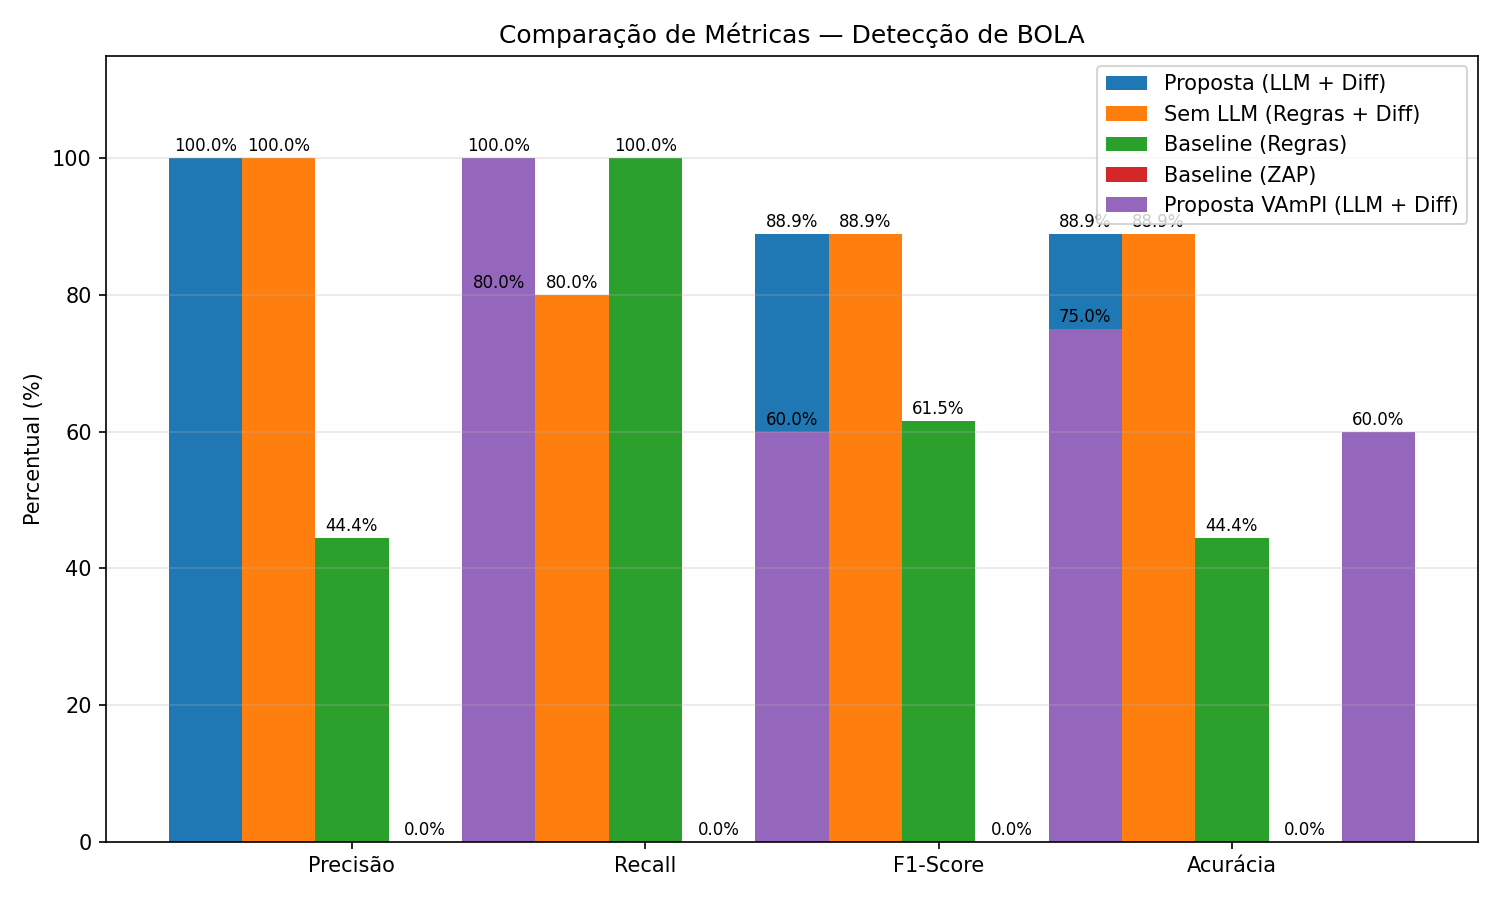
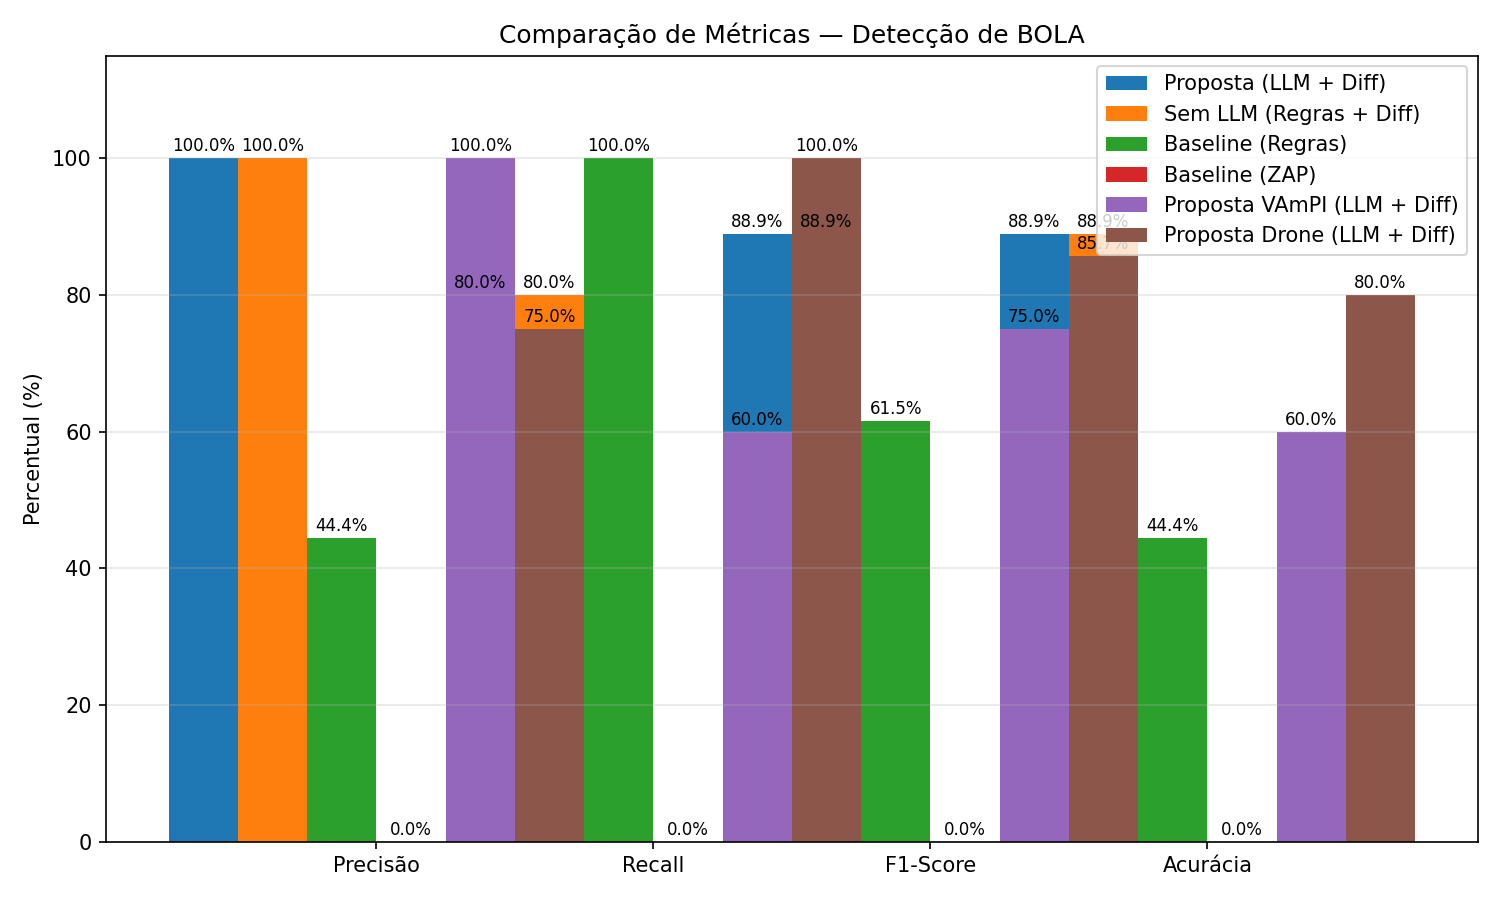
docs+results: experimento em alvo inédito (robustez a contaminação)
- results.csv: adiciona linha Proposta Drone (3 TP, 1 FP, 0 FN, 1 TN;
  precisão 75%, recall 100%, F1 85,7%)
- RESULTADOS.md: seção 2.3 (detalhamento Drone), achado 3b (robustez a
  contaminação de benchmark), causa C do FP (colisão de rota GET-only)
- HOWTO/DEVLOG: passo 5d e documentação do alvo inédito
- Gráficos regenerados com as 6 ferramentas

Recall 100% em alvo que a LLM não pode conhecer = evidência de
raciocínio estrutural, não memorização de benchmark público.

diff --git a/RESULTADOS.md b/RESULTADOS.md
@@ -19,6 +19,7 @@ reconhecidamente vulneráveis em cada benchmark — ver seção 3 e a classe
 | **Baseline (Regras)** — crAPI | 4 | 5 | 0 | 0 | 0 | 44,4% | 100% | 61,5% | 44,4% | 0,5 | 0 |
 | **Baseline (ZAP)** — crAPI | 0 | 80 | 4 | 0 | 0 | 0% | 0% | 0% | 0% | ~300 | 0 |
 | **Proposta (LLM + Diff)** — VAmPI | 3 | 0 | 2 | 0 | 2 | 100% | 60% | 75% | 60% | 5,7 | 0* |
+| **Proposta (LLM + Diff)** — Drone (inédito) | 3 | 1 | 0 | 1 | 0 | 75% | 100% | 85,7% | 80% | 7,2 | 0* |
 
 > *No VAmPI o LLM foi usado, mas o custo de tokens não foi instrumentado nesta
 > execução (coluna registra 0 por limitação do contador, não por ausência de uso).
@@ -83,12 +84,49 @@ Coluna "Classe" = classificação vs. gabarito (seção 1, Metodologia).
 
 **Total:** 3 TP, 0 FP, 2 FN, 0 TN.
 
+### 2.3 Proposta na Drone Rescue API (alvo inédito, 5 endpoints)
+
+Este é o experimento que **elimina o risco de contaminação de benchmark**: a API
+foi criada do zero para o TCC (domínio fictício "Observatório de Drones de
+Resgate"), nunca publicada antes dos testes. Logo, a LLM não pode tê-la
+memorizado — qualquer acerto vem de **raciocínio estrutural** sobre o spec. O
+gabarito é conhecido por construção (nós escrevemos quais endpoints validam o
+dono e quais não).
+
+| # | Método | Endpoint | Veredito | Classe | Interpretação |
+|---|---|---|---|---|---|
+| 1 | GET | `/api/v1/missions/{missionId}` | **VULNERABLE** | **TP** | A leu coordinates/briefing da missão de B |
+| 2 | PUT | `/api/v1/missions/{missionId}` | **VULNERABLE** | **TP** | A alterou a missão de B |
+| 3 | GET | `/api/v1/pilots/{pilotId}/profile` | **VULNERABLE** | **TP** | A leu o perfil de B |
+| 4 | GET | `/api/v1/missions/{missionId}/briefing` | DENIED | TN | Seguro: `own=200, cross=403` — validação de posse detectada |
+| 5 | DELETE | `/api/v1/missions/{missionId}` | **VULNERABLE** | **FP** | **Falso positivo** — ver explicação abaixo |
+
+**Total:** 3 TP, 1 FP, 0 FN, 1 TN. Precisão 75%, **Recall 100%**, F1 85,7%.
+
+**Destaques deste experimento:**
+- **Recall 100% em alvo inédito:** a arquitetura encontrou os 3 BOLAs reais sem
+  conhecimento prévio da aplicação — forte evidência de que raciocina sobre a
+  estrutura, não memoriza benchmarks públicos.
+- **Detecção correta de endpoint seguro (TN):** o `GET /briefing` valida o dono
+  e respondeu `403` no acesso cruzado; o verificador diferencial captou a
+  diferença (`own=200` vs `cross=403`) e **não** o marcou como vulnerável. Isso
+  demonstra o valor da verificação diferencial: ela distingue o endpoint seguro
+  do vulnerável mesmo quando ambos têm a mesma assinatura.
+- **1 falso positivo (DELETE) — causa conhecida, não é erro de BOLA:** o
+  `DELETE /missions/{missionId}` é seguro (retorna 403 no acesso cruzado), mas
+  foi marcado VULNERABLE. A causa é a **limitação GET-only**: o verificador, ao
+  "testar" o DELETE, na verdade faz um GET na mesma URL, que casa com a rota
+  vulnerável `GET /missions/{missionId}` e retorna 200/200. O FP, portanto, é um
+  artefato da mesma limitação que gera os FN em outros alvos — e some assim que o
+  verificador passar a usar o método HTTP correto.
+
 ---
 
-## 3. Por que alguns endpoints ficaram INCONCLUSIVE?
+## 3. A limitação GET-only e suas três manifestações
 
-Há **duas causas distintas**, ambas ligadas ao mesmo fator: o
-`DifferentialVerifier` atual executa **apenas requisições GET**.
+O `DifferentialVerifier` atual executa **apenas requisições GET**. Essa única
+limitação se manifesta de três formas distintas nos resultados — entendê-las é
+chave para interpretar as métricas.
 
 ### Causa A — Endpoint não aceita GET (HTTP 405)
 
@@ -114,6 +152,17 @@ No crAPI, os três endpoints de vídeo retornaram `own=404, cross=404` → DENIE
 Os usuários de teste criados pelo `CrApiSetup` não possuem vídeos, então o
 recurso não existe nem para o próprio dono. Isso é classificado como DENIED
 (acesso negado por ausência), não como vulnerabilidade — comportamento correto.
+
+### Causa C — Colisão de rota em endpoint de escrita (falso positivo)
+
+Na Drone Rescue API, o `DELETE /missions/{missionId}` é seguro (valida o dono,
+retorna 403 no acesso cruzado), mas foi marcado VULNERABLE. Como o verificador
+faz GET na URL do DELETE, a requisição casou com a rota **`GET /missions/{id}`**
+(que é vulnerável) e retornou 200/200. Resultado: 1 **falso positivo**.
+
+Ou seja, a mesma limitação GET-only que gera FN (causa A) também pode gerar FP
+quando uma URL de escrita segura coincide com uma rota GET vulnerável. Reforça
+que estender o verificador para os métodos HTTP corretos é a melhoria prioritária.
 
 ---
 
@@ -143,10 +192,21 @@ GET, perdendo os BOLAs em endpoints de escrita. Isso indica um caminho claro de
 melhoria (seção 5) sem comprometer a precisão já alcançada.
 
 **Achado 3 — A arquitetura generaliza.**  
-O detector funcionou no VAmPI sem nenhuma alteração no núcleo (LLM +
-`DifferentialVerifier`). Apenas o adaptador de setup (`VampiSetup`) foi escrito,
-análogo ao `CrApiSetup`. Isso evidencia que a separação entre "setup específico
-do alvo" e "motor de detecção genérico" é uma decisão arquitetural sólida.
+O detector funcionou no VAmPI e na Drone Rescue API sem nenhuma alteração no
+núcleo (LLM + `DifferentialVerifier`). Apenas o adaptador de setup foi escrito
+para cada alvo (`VampiSetup`, `DroneSetup`), análogo ao `CrApiSetup`. Isso
+evidencia que a separação entre "setup específico do alvo" e "motor de detecção
+genérico" é uma decisão arquitetural sólida.
+
+**Achado 3b — Robustez a contaminação de benchmark (alvo inédito).**  
+crAPI e VAmPI são projetos públicos que podem ter feito parte do corpus de treino
+da LLM, levantando a dúvida: *"a LLM acerta porque reconhece o benchmark?"*. Para
+responder, criou-se a **Drone Rescue API** — aplicação sintética, de domínio
+fictício, nunca publicada antes dos experimentos. Nela o detector obteve
+**recall de 100%** (achou os 3 BOLAs reais) e ainda **classificou corretamente um
+endpoint seguro** (TN). Como a LLM não poderia ter memorizado uma aplicação que
+não existia, o resultado indica **raciocínio estrutural** sobre o spec, não
+reconhecimento. Este é o argumento mais forte contra a crítica de contaminação.
 
 **Achado 4 — O ZAP (DAST genérico) não detecta BOLA.**  
 O ZAP encontrou 80 alertas, nenhum deles BOLA (Recall 0%). Confirma a premissa
@@ -185,6 +245,9 @@ completa** do `HOWTO.md`. As saídas brutas de cada execução estão em `output
 | `outputs/llm-detector.txt` | Log completo da proposta no crAPI |
 | `outputs/sem-llm-detector.txt` | Log do experimento de ablação |
 | `outputs/vampi-detector.txt` | Log da proposta no VAmPI |
+| `outputs/drone-detector.txt` | Log da proposta no alvo inédito (Drone) |
+| `outputs/results_drone.csv` | Métricas do alvo inédito |
+| `outputs/drone-openapi.json` | Spec da Drone Rescue API |
 | `outputs/baseline-rule-based.txt` | Log do baseline de regras |
 | `outputs/zap_alerts.csv` | Alertas do ZAP |
 | `outputs/results_proposta.csv` | Métricas da proposta no crAPI |

diff --git a/HOWTO.md b/HOWTO.md
@@ -31,12 +31,17 @@ tcc_bola_fatec/
 │   ├── zap_alerts.csv
 │   ├── metrics_comparison.png
 │   └── confusion_matrices.png
-└── tcc-bola-detector/        ← projeto Java (código-fonte)
+├── tcc-bola-detector/        ← projeto Java (detector)
+│   ├── pom.xml
+│   ├── openapi.json          ← spec do crAPI
+│   ├── vampi-openapi.json    ← spec do VAmPI
+│   ├── drone-openapi.json    ← spec do alvo inédito
+│   ├── scripts/
+│   │   ├── generate_charts.py
+│   │   └── zap_json_to_csv.py
+│   └── src/
+└── drone-rescue-api/         ← alvo sintético inédito (Spring Boot + H2)
     ├── pom.xml
-    ├── openapi.json
-    ├── scripts/
-    │   ├── generate_charts.py
-    │   └── zap_json_to_csv.py
     └── src/
 ```
 
@@ -198,6 +203,39 @@ e o arquivo `results_vampi.csv`.
 
 ---
 
+## Passo 5d — Teste em alvo INÉDITO (Drone Rescue API)
+
+Valida o detector contra uma API sintética criada para o TCC, que a LLM não pode
+conhecer — eliminando o risco de contaminação de benchmark. Gabarito 100%
+controlado por construção.
+
+```bash
+# 1. Subir a aplicação alvo (Spring Boot + H2 em memória, porta 7070)
+cd drone-rescue-api
+mvn clean package -DskipTests
+java -jar target/drone-rescue-api-1.0.0.jar &
+cd ..
+
+# 2. Baixar o spec
+curl -s http://localhost:7070/openapi.json -o tcc-bola-detector/drone-openapi.json
+
+# 3. Rodar o detector completo
+cd tcc-bola-detector
+export OPENAI_API_KEY=$(cut -d= -f2- ../key.env)
+
+mvn exec:java \
+  -Dexec.mainClass="br.edu.tcc.bola.MainDrone" \
+  -Dexec.args="drone-openapi.json http://localhost:7070 results_drone.csv" 2>&1 \
+  | tee ../outputs/drone-detector.txt
+```
+
+**Saída esperada:** `Proposta Drone (LLM + Diff),3,1,0,1,0,0.750,1.000,0.857,0.800,<tempo>,0`
+(recall 100% em alvo inédito; 1 FP no DELETE pela limitação GET-only).
+
+> O H2 é recriado a cada boot — não há estado persistente entre execuções.
+
+---
+
 ## Passo 6 — Executar o ZAP (Baseline DAST)
 
 ```bash
@@ -243,6 +281,7 @@ Sem LLM (Regras + Diff),4,0,1,4,2,1.000,0.800,0.889,0.889,3.7,0
 Baseline (Regras),4,5,0,0,0,0.444,1.000,0.615,0.444,0.5,0
 Baseline (ZAP),0,80,4,0,0,0.000,0.000,0.000,0.000,300,0
 Proposta VAmPI (LLM + Diff),3,0,2,0,2,1.000,0.600,0.750,0.600,5.7,0
+Proposta Drone (LLM + Diff),3,1,0,1,0,0.750,1.000,0.857,0.800,7.2,0
 ```
 
 > As métricas são calculadas contra um gabarito (`metrics/GroundTruth.java`);
@@ -298,6 +337,11 @@ mvn exec:java -Dexec.mainClass="br.edu.tcc.bola.MainSemLLM" \
 mvn exec:java -Dexec.mainClass="br.edu.tcc.bola.MainVampi" \
   -Dexec.args="vampi-openapi.json http://localhost:5001 results_vampi.csv" 2>&1 \
   | tee ../outputs/vampi-detector.txt
+
+# 9b. Detector LLM (Drone — alvo inédito, sobe via java -jar na porta 7070)
+mvn exec:java -Dexec.mainClass="br.edu.tcc.bola.MainDrone" \
+  -Dexec.args="drone-openapi.json http://localhost:7070 results_drone.csv" 2>&1 \
+  | tee ../outputs/drone-detector.txt
 
 # 10. ZAP (crAPI — baseline DAST)
 docker run --rm --network host -v $(pwd):/zap/wrk/:rw \

diff --git a/DEVLOG.md b/DEVLOG.md
@@ -327,6 +327,39 @@ verificador (os FN são todos endpoints de escrita).
 
 ---
 
+## 12. Alvo inédito — Drone Rescue API (robustez a contaminação)
+
+**Motivação:** crAPI e VAmPI são públicos e podem ter sido vistos pela LLM no
+treino. Para descartar a hipótese "a LLM só acerta porque reconhece o benchmark",
+foi criada uma aplicação **sintética e inédita**.
+
+**Projeto novo:** `drone-rescue-api/` — Spring Boot 3.2.5, Java 17, banco **H2 em
+memória** (zero setup, recriado a cada boot), porta 7070.
+
+**Decisões de design:**
+- Domínio fictício e incomum ("Observatório de Drones de Resgate": pilotos e
+  missões) para minimizar qualquer sobreposição com dados de treino.
+- Banco em memória (H2) para reprodutibilidade trivial — não exige Docker nem
+  seed externo, ao contrário do crAPI.
+- **Mix controlado** de endpoints: 3 vulneráveis (não validam o dono) e 2 seguros
+  (validam `token.pilot == recurso.owner` → 403). Assim o gabarito é conhecido
+  por construção e permite medir falso positivo de verdade.
+- Spec servido em `GET /openapi.json` (recurso estático), consumido pelo detector.
+
+**Integração ao detector:** `DroneSetup.java` + `MainDrone.java` (análogos aos do
+VAmPI) e `GroundTruth.DRONE_VULNERABLE`. Núcleo (LLM + verificador) reutilizado
+sem alteração.
+
+**Resultado:** 3 TP, 1 FP, 0 FN, 1 TN → Precisão 75%, **Recall 100%**, F1 85,7%.
+- Recall 100% em alvo inédito = forte evidência de raciocínio, não memorização.
+- O verificador distinguiu o endpoint seguro (`GET /briefing`: own=200 vs
+  cross=403 → DENIED/TN).
+- O único FP foi o `DELETE /missions/{id}` (seguro), marcado VULNERABLE porque o
+  verificador testa via GET e a URL casou com a rota GET vulnerável. Mesma
+  limitação GET-only, agora manifestada como FP.
+
+---
+
 ## Resumo dos arquivos alterados
 
 | Arquivo | Alterações |
@@ -339,8 +372,11 @@ verificador (os FN são todos endpoints de escrita).
 | `src/.../MainSemLLM.java` | **Novo** — experimento de ablação sem LLM (Tarefa 1) |
 | `src/.../setup/VampiSetup.java` | **Novo** — setup do VAmPI (Tarefa 2) |
 | `src/.../MainVampi.java` | **Novo** — pipeline LLM + Diff no VAmPI (Tarefa 2) |
-| `src/.../metrics/GroundTruth.java` | **Novo** — gabarito de endpoints vulneráveis por benchmark |
+| `src/.../metrics/GroundTruth.java` | **Novo** — gabarito por benchmark (crAPI, VAmPI, Drone) |
 | `src/.../metrics/MetricsCalculator.java` | **Novo** — cálculo honesto de TP/FP/FN/TN vs gabarito |
+| `src/.../setup/DroneSetup.java` | **Novo** — setup do alvo inédito Drone |
+| `src/.../MainDrone.java` | **Novo** — pipeline LLM + Diff no alvo inédito |
+| `drone-rescue-api/` | **Novo projeto** — API sintética vulnerável (Spring Boot + H2) |
 | `src/.../Main.java` | Também passou a exportar CSV com métricas vs gabarito |
 | `vampi-openapi.json` | **Novo** — spec do VAmPI |
 | `scripts/zap_json_to_csv.py` | **Novo** — converte relatório JSON do ZAP para CSV |
